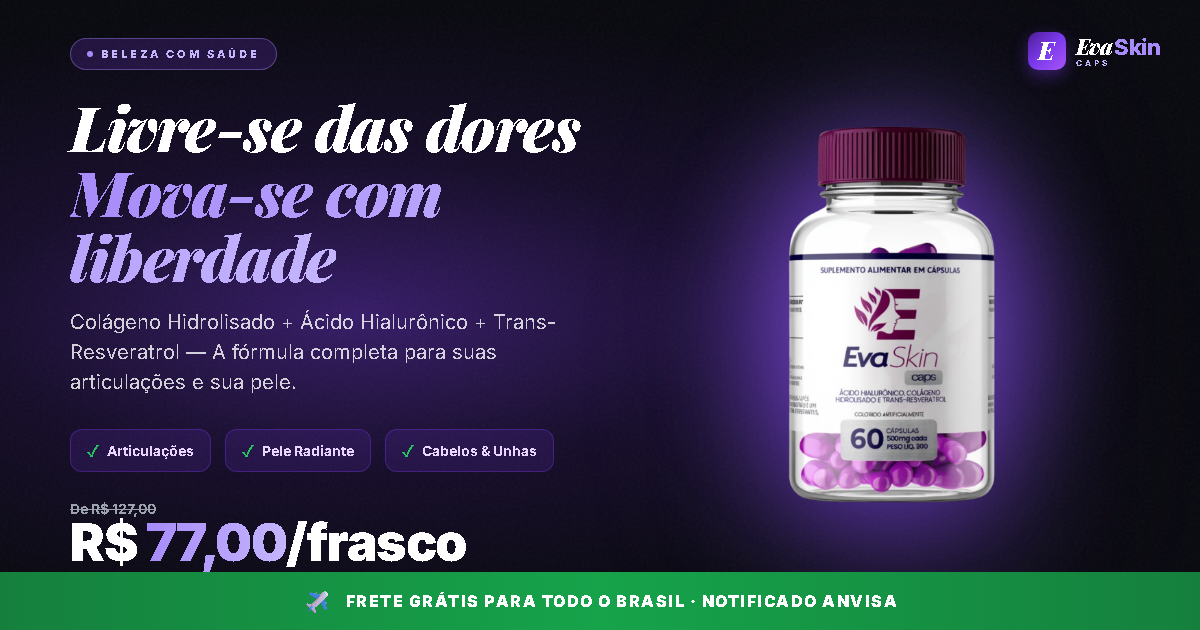
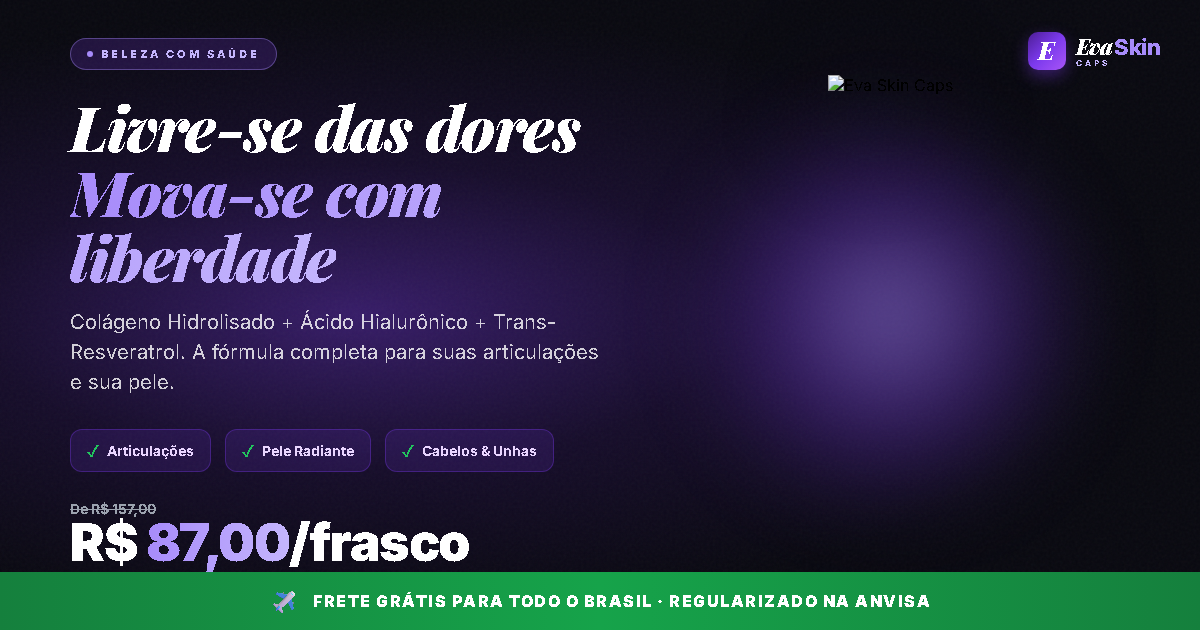
OG image: 'Regularizado na ANVISA' e remove travessao do subtitulo

diff --git a/public/og-image.html b/public/og-image.html
@@ -59,7 +59,7 @@ body{width:1200px;height:630px;overflow:hidden;background:#08080f;font-family:'I
   <div class="left">
     <div class="badge">Beleza com Saúde</div>
     <h1 class="headline">Livre-se das dores<br><em>Mova-se com liberdade</em></h1>
-    <p class="subline">Colágeno Hidrolisado + Ácido Hialurônico + Trans-Resveratrol — A fórmula completa para suas articulações e sua pele.</p>
+    <p class="subline">Colágeno Hidrolisado + Ácido Hialurônico + Trans-Resveratrol. A fórmula completa para suas articulações e sua pele.</p>
     <div class="benefits">
       <span class="benefit">Articulações</span>
       <span class="benefit">Pele Radiante</span>
@@ -82,7 +82,7 @@ body{width:1200px;height:630px;overflow:hidden;background:#08080f;font-family:'I
 
 <div class="bottom-ribbon">
   <span class="airplane">✈️</span>
-  <span class="bottom-ribbon-text">FRETE GRÁTIS para TODO o Brasil · Notificado ANVISA</span>
+  <span class="bottom-ribbon-text">FRETE GRÁTIS para TODO o Brasil · Regularizado na ANVISA</span>
 </div>
 </body>
 </html>